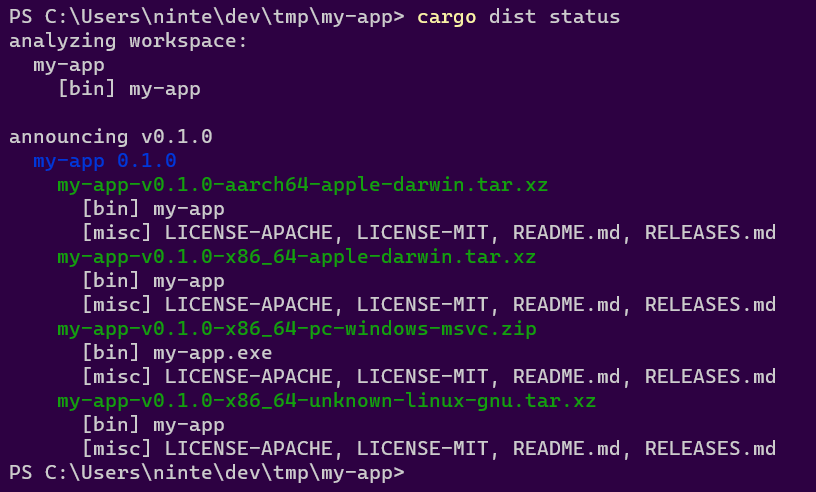
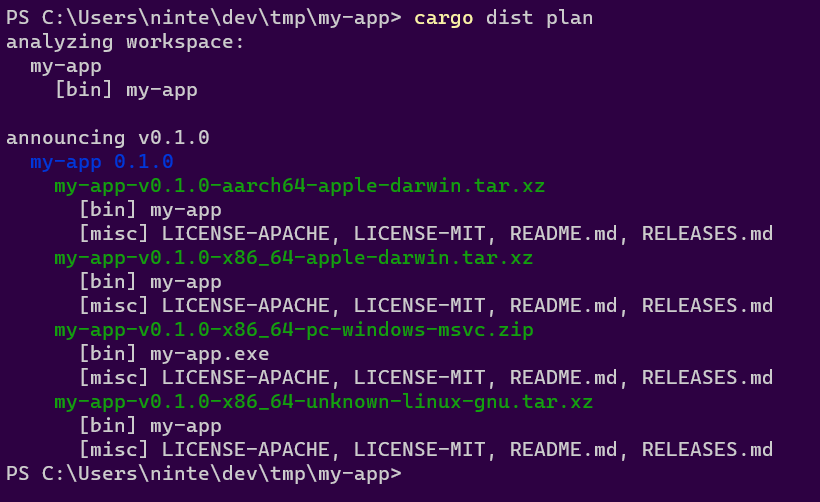
rename status command to plan

Changed region(s): [[0.0, 0.2439, 0.9498, 0.9756], [0.0, 0.0, 0.7659, 0.2134]]

diff --git a/cargo-dist/src/cli.rs b/cargo-dist/src/cli.rs
@@ -119,11 +119,17 @@ pub enum Commands {
     GenerateCi(GenerateCiArgs),
     /// Generate the final build manifest without running any builds.
     ///
-    /// Everything will be computed based on what cargo-dist *expects*
-    /// the output of a build to be, so this may produce several paths
-    /// to nowhere without the actual build to populate them!
+    /// This command is designed to match the exact behaviour of
+    /// 'cargo dist build' when passed the same flags, which is nice
+    /// for consistency but annoying for anyone who doesn't understand
+    /// cargo-dist's design really well.
     ///
-    /// This is most useful when paired with `--artifacts=all`.
+    /// Notably it will default to only talking about artifacts
+    /// for the host system, and will produce paths to the build dir
+    /// that may not exist (since the build wasn't run).
+    ///
+    /// 'cargo dist plan' is an alias for this command that picks nicer defaults
+    /// by forcing a couple flags to have specific values. You probably want that.  
     #[clap(disable_version_flag = true)]
     Manifest(ManifestArgs),
     /// Print --help as markdown (for generating docs)
@@ -132,17 +138,20 @@ pub enum Commands {
     #[clap(disable_version_flag = true)]
     #[clap(hide = true)]
     HelpMarkdown(HelpMarkdownArgs),
-    /// Get a quick summary of the status of your project
+    /// Get a plan of what to build (and check project status)
     ///
     /// If you want to know what running your cargo-dist CI will produce,
-    /// this is the command for you! It should run the exact same logic and do some
-    /// basic integrity checks.
+    /// this is the command for you! This is the exact command that CI will
+    /// run to make its build plan and generate dist-manifest.json
+    /// (although it adds --output-format=json so that it's machine-readable).
     ///
-    /// This is roughly an alias for:
+    /// This is an alias for the lower-level 'manifest' command with the
+    /// appropriate flags forced for asking for "everything":
     ///
     ///     cargo dist manifest --artifacts=all --no-local-paths
+    ///
     #[clap(disable_version_flag = true)]
-    Status(StatusArgs),
+    Plan(PlanArgs),
 }
 
 #[derive(Args, Clone, Debug)]
@@ -260,7 +269,7 @@ pub struct ManifestArgs {
 }
 
 #[derive(Args, Clone, Debug)]
-pub struct StatusArgs {}
+pub struct PlanArgs {}
 
 #[derive(Copy, Clone, Debug, PartialEq, Eq, PartialOrd, Ord, ValueEnum)]
 pub enum OutputFormat {

diff --git a/cargo-dist/src/main.rs b/cargo-dist/src/main.rs
@@ -9,7 +9,7 @@ use camino::Utf8PathBuf;
 use cargo_dist::*;
 use cargo_dist_schema::{AssetKind, DistManifest};
 use clap::Parser;
-use cli::{Cli, Commands, FakeCli, HelpMarkdownArgs, ManifestArgs, OutputFormat, StatusArgs};
+use cli::{Cli, Commands, FakeCli, HelpMarkdownArgs, ManifestArgs, OutputFormat, PlanArgs};
 use console::Term;
 use miette::IntoDiagnostic;
 
@@ -31,7 +31,7 @@ fn real_main(cli: &axocli::CliApp<Cli>) -> Result<(), miette::Report> {
         Commands::Init(args) => cmd_init(config, args),
         Commands::GenerateCi(args) => cmd_generate_ci(config, args),
         Commands::Manifest(args) => cmd_manifest(config, args),
-        Commands::Status(args) => cmd_status(config, args),
+        Commands::Plan(args) => cmd_plan(config, args),
         Commands::HelpMarkdown(args) => cmd_help_md(config, args),
         Commands::Build(args) => cmd_dist(config, args),
     }
@@ -160,7 +160,7 @@ fn cmd_manifest(cli: &Cli, args: &ManifestArgs) -> Result<(), miette::Report> {
     Ok(())
 }
 
-fn cmd_status(cli: &Cli, _args: &StatusArgs) -> Result<(), miette::Report> {
+fn cmd_plan(cli: &Cli, _args: &PlanArgs) -> Result<(), miette::Report> {
     // Force --no-local-paths and --artifacts=all
     // No need to force --output-format=human
     let mut new_cli = cli.clone();

diff --git a/book/src/simple-guide.md b/book/src/simple-guide.md
@@ -91,17 +91,17 @@ git commit -am "wow cool new cargo-dist CI!"
 git push
 ```
 
-Actually wait we should... probably test that we set things up properly? The devil's always in the details when it comes to CI, but we can do some initial checking of things with the [status][] command:
+Actually wait we should... probably test that we set things up properly? The devil's always in the details when it comes to CI, but we can do some initial checking of things with the [plan][] command:
 
 ```sh
-cargo dist status
+cargo dist plan
 ```
 
-[status][] is the same as [build][] but it doesn't actually *run* the build and defaults to reporting info for all platforms. This makes it ideal for asking cargo-dist about the full Announcement a CI run would produce.
+[plan][] is the same as [build][] but it doesn't actually *run* the build and defaults to reporting info for all platforms. This makes it ideal for asking cargo-dist about the full Announcement a CI run would produce.
 
 If everything went right, you should see something like the following:
 
-![The result of running the status command, described below][simple-app-manifest].
+![The result of running the plan command, described below][simple-app-manifest].
 
 This output has two parts: "analyzing workspace" and "announcing"
 
@@ -129,10 +129,10 @@ With all our one-time setup done, we're ready to cut a release! This can be stre
 
 The first step is to do all the things you would do to prep a release: update docs, update release notes, bump version numbers in Cargo.tomls, run tests, and so on.
 
-At this point we're confident and want to release things for real. Once again, we can check what cargo-dist thinks should happen with the [status][] command:
+At this point we're confident and want to release things for real. Once again, we can check what cargo-dist thinks should happen with the [plan][] command:
 
 ```sh
-cargo dist status
+cargo dist plan
 ```
 
 Similarly you can check that `cargo publish` will work with the `--dry-run` flag:
@@ -141,7 +141,7 @@ Similarly you can check that `cargo publish` will work with the `--dry-run` flag
 cargo publish --dry-run
 ```
 
-If both of those seem happy, you're ready to release! All we need to do is push up a commit that has the [Git Tag][git-tag] that [status][] suggested. As we've seen in previous sections, it's recommending "v0.1.0" for our example app, so let's use that:
+If both of those seem happy, you're ready to release! All we need to do is push up a commit that has the [Git Tag][git-tag] that [plan][] suggested. As we've seen in previous sections, it's recommending "v0.1.0" for our example app, so let's use that:
 
 ```sh
 # Publish to a Github Release with cargo-dist
@@ -204,7 +204,7 @@ parse-changelog also has support for a special `# Unreleased` heading, but we do
 [platforms]: https://doc.rust-lang.org/nightly/rustc/platform-support.html
 [release-yml]: https://github.com/axodotdev/cargo-dist/blob/main/.github/workflows/release.yml
 [jq]: https://stedolan.github.io/jq/
-[status]:  ./cli.md#cargo-dist-status
+[plan]:  ./cli.md#cargo-dist-plan
 [build]: ./cli.md#cargo-dist-build
 [artifact-modes]: ./concepts.md#artifact-modes-selecting-artifacts
 [parse-changelog]: https://github.com/taiki-e/parse-changelog

diff --git a/book/src/concepts.md b/book/src/concepts.md
@@ -81,7 +81,7 @@ cargo-dist's self-generated CI is triggered by pushing git tags with specific fo
 
 1 Git Tag = 1 cargo-dist Announcement = 1 Github Release
 
-Even when not running in CI, this concept of a coherent Announcement Tag is important enough that we will always try to guess one even if none is provided. The "build", "manifest", and "status" commands will refuse to run if a coherent Announcement Tag can't be determined to help you catch problems before you start pushing to CI. If this happens you will get a printout telling you some options:
+Even when not running in CI, this concept of a coherent Announcement Tag is important enough that we will always try to guess one even if none is provided. The "build", "manifest", and "plan" commands will refuse to run if a coherent Announcement Tag can't be determined to help you catch problems before you start pushing to CI. If this happens you will get a printout telling you some options:
 
 ![the error printout, described below][announce-error]
 
@@ -152,14 +152,14 @@ cargo dist manifest --tag=v0.5.0 --artifacts=all --no-local-paths --output-forma
 
 This is the only way that CI uses the flag, but you could also use "all" with `build` (the default cargo-dist command) if you want to get all the artifacts built at once, although you should probably filter the `--target`s as discussed in the section on "local".
 
-`cargo dist manifest --artifacts=all --no-local-paths` is so useful/common that we provide an alias for it: `cargo dist status`. The above can be simplified to:
+`cargo dist manifest --artifacts=all --no-local-paths` is so useful/common that we provide an alias for it: `cargo dist plan`. The above can be simplified to:
 
 ```sh
-cargo dist status --tag=v0.5.0
+cargo dist plan --tag=v0.5.0
 ```
 
 ```sh
-cargo dist status --tag=v0.5.0 -ojson
+cargo dist plan --tag=v0.5.0 -ojson
 ```
 
 
@@ -222,7 +222,7 @@ Ok so here's what goes through cargo-dist's brains when you run it:
 6. Add all the enabled Installers to each Release (local ones broadcasted to each Variant, filtered by Artifact Mode)
 7. Compute the Build Steps necessary to produce each Artifact ("run cargo, copy this file, ...")
 8. Generate top-level Announcement info like the body for a Github Release
-9. run the Build Steps (ignored by `manifest`/`status`)
+9. run the Build Steps (ignored by `manifest`/`plan`)
 10. print a manifest of the computed Announcement/Releases/Artifacts
 
 CI will parse the resulting (`--output-format=json`) manifest of each `build` invocation to know what artifacts were produced and need to be uploaded to the Github Release.

diff --git a/book/src/way-too-quickstart.md b/book/src/way-too-quickstart.md
@@ -35,7 +35,7 @@ The one-time setup will add a decent default configuration to your root Cargo.to
 When testing out cargo-dist locally, the two biggest things you might be interested in are:
 
 1. build for the current platform (`cargo dist build`)
-2. check what CI will build (`cargo dist status`)
+2. check what CI will build (`cargo dist plan`)
 
 
 
@@ -60,10 +60,10 @@ See [artifact modes][artifact-modes] for more advanced details on selecting what
 ### Check What CI Will Build
 
 ```sh
-cargo dist status
+cargo dist plan
 ```
 
-![Running "cargo dist status" on a project, producing a full printout of the tarballs/zips that will be produced for all platforms (mac, linux, windows), and all installers (shell, powershell)][quickstart-build]
+![Running "cargo dist plan" on a project, producing a full printout of the tarballs/zips that will be produced for all platforms (mac, linux, windows), and all installers (shell, powershell)][quickstart-build]
 
 This should be running the exact same logic that cargo-dist's generated CI will run, but without actually building anything. This lets you quickly check what cutting a new release will produce. It will also try to catch any inconsistencies that could make the CI error out.
 
@@ -119,6 +119,6 @@ For more details on using cargo-release with cargo-dist, see [the guide for that
 [cargo-release-guide]: ./cargo-release-guide.md
 [workspace]: https://doc.rust-lang.org/cargo/reference/workspaces.html
 [quickstart-build]: ./img/quickstart-build.png
-[quickstart-status]: ./img/quickstart-build.png
+[quickstart-plan]: ./img/quickstart-plan.png
 [artifact-modes]: ./concepts.md#artifact-modes-selecting-artifacts
 [installers]: ./installers.md

diff --git a/book/src/cargo-release-guide.md b/book/src/cargo-release-guide.md
@@ -268,7 +268,7 @@ That should end with a line that looks like "Pushing main, v1.0.0 to origin". Th
 cargo release 1.0.0 --execute --no-push --no-tag --no-publish
 
 # ask cargo-dist what should be produced for the given tag
-cargo dist status --tag=<tag-you-want-to-check>
+cargo dist plan --tag=<tag-you-want-to-check>
 ```
 
 If that runs successfully and prints out the artifacts you expect, that's pretty good sign running cargo-release For Real will work! (You can also try `cargo dist build` if you're worried about the actual build failing.)
@@ -332,11 +332,11 @@ cargo release --no-publish --no-tag --allow-branch=$BRANCH $VERSION
 #  * trigger cargo-dist when it sees the tag (if applicable)
 # THIS WON'T CREATE NEW COMMITS
 #
-# running "cargo dist status" is totally optional, but this is is the best time to check
+# running "cargo dist plan" is totally optional, but this is is the best time to check
 # that your cargo-dist release CI will produce the desired result when you push the tag
 git checkout main
 git pull
-cargo dist status
+cargo dist plan
 cargo release
 ```
 

diff --git a/cargo-dist-schema/README.md b/cargo-dist-schema/README.md
@@ -3,7 +3,7 @@
 [![crates.io](https://img.shields.io/crates/v/cargo-dist-schema.svg)](https://crates.io/crates/cargo-dist) [![docs](https://docs.rs/cargo-dist-schema/badge.svg)](https://docs.rs/cargo-dist-schema)
 ![Rust CI](https://github.com/axodotdev/cargo-dist/workflows/Rust%20CI/badge.svg?branch=main)
 
-Schema reporting/parsing for cargo-dist's `dist-manifest.json`, which is the result you get from `--output-format=json` when running `cargo dist build` or `cargo dist status`.
+Schema reporting/parsing for cargo-dist's `dist-manifest.json`, which is the result you get from `--output-format=json` when running `cargo dist build` or `cargo dist plan`.
 
 [Read the schema and docs here!][https://axodotdev.github.io/cargo-dist/book/schema.html]
 
